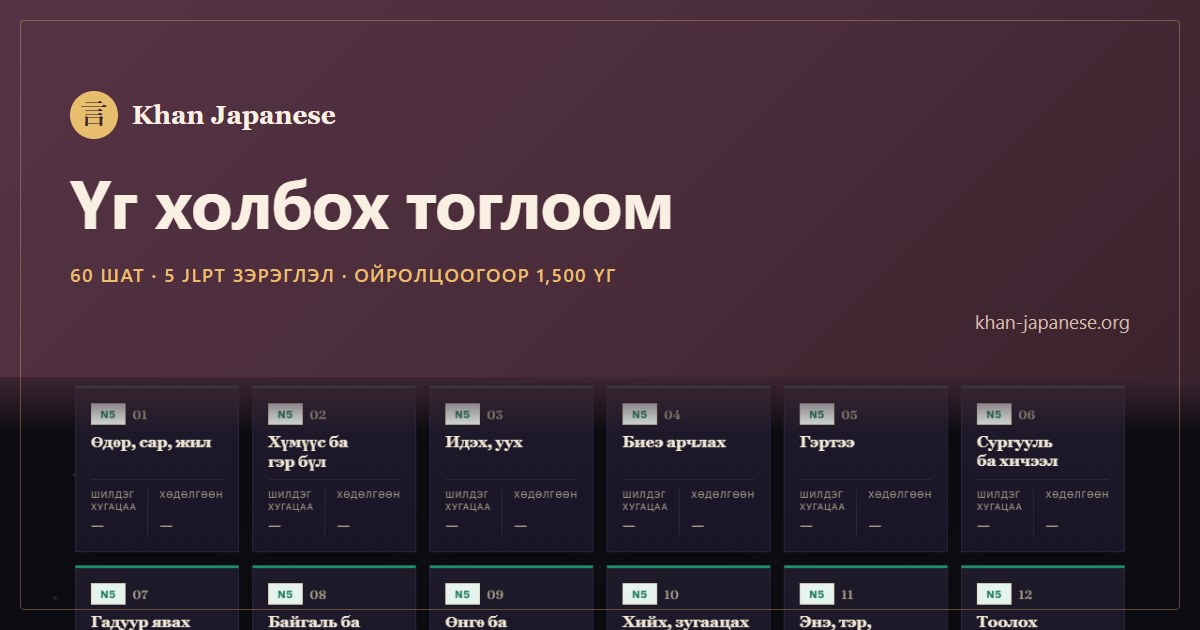
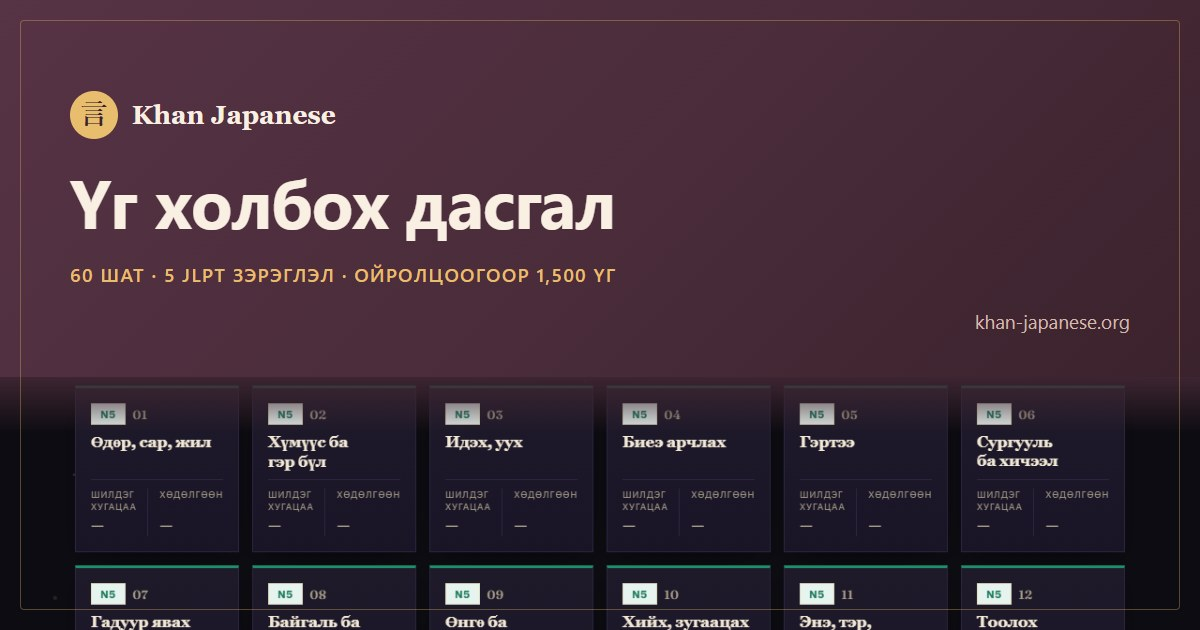
Word Match is "Үг холбох дасгал", and "үнэгүй" is out of the promotion copy
Two wording decisions from the user while reviewing the Facebook cover:

- The tool's Mongolian name becomes "Үг холбох дасгал" everywhere it appears:
  masthead nav, hub card, the game page's title, subtitle and share card,
  dashboard, dictionary sources, credits, privacy, terms. That's 19 uses, and
  the only inflections were тоглоом / тоглоомын, so no vowel-harmony traps. The
  round's start button said "Тоглоом эхлүүлэх" and now says "Дасгал
  эхлүүлэх"; the two specs that click it by label follow. "Тоглолт, спорт,
  тоглоом" stays: it's a vocabulary topic (the words for games), not the tool.
  English "Word Match" is unchanged.
- "үнэгүй" (free) read as cheap, so it's gone from the home and dictionary
  share previews (title and descriptions), the home and dictionary preview
  images, and the Facebook bio, About text and Post 1. It stays where it's a
  statement of fact rather than a pitch: the credits' licence notes, privacy,
  terms, and the Word Match tip about a bonus clearing a pair for free.

The home description's tool list would have read "үг холбох дасгал, дүрмийн
дасгал", so it now uses the tools' own names. Post 3 no longer opens by
framing word study as a game.

Checked in a browser in Mongolian: nav and hub card say "Үг холбох дасгал",
the start button says "Дасгал эхлүүлэх", and the page titles and share
previews are right on all pages. Test suite 5/5. sw.js v88.

Changed region(s): [[0.3392, 0.3016, 0.5858, 0.3921]]

diff --git a/index.html b/index.html
@@ -3,24 +3,24 @@
 
 <head>
     <meta charset="UTF-8">
-    <title data-en="Khan Japanese - Japanese Study Tools">Khan Japanese — Япон хэл сурах үнэгүй хэрэгслүүд</title>
+    <title data-en="Khan Japanese - Japanese Study Tools">Khan Japanese — Япон хэл сурах хэрэгслүүд</title>
     <meta name="viewport" content="width=device-width, initial-scale=1">
-    <meta name="description" content="Япон хэлийг амар замаар нь биш, үндсээс нь сурахад зориулсан үнэгүй хэрэгслүүд: Монгол-Япон толь бичиг, үг холбох тоглоом, дүрмийн дасгал, чанга уншлагын дадлага. Бүртгүүлэх шаардлагагүй.">
+    <meta name="description" content="Япон хэлийг амар замаар нь биш, үндсээс нь сурахад зориулсан хэрэгслүүд: Монгол-Япон толь бичиг, үг холбох дасгал, дүрэм холбох, уншлагын дадлага. Бүртгүүлэх шаардлагагүй.">
     <link rel="canonical" href="https://khan-japanese.org/">
     <meta property="og:type" content="website">
     <meta property="og:site_name" content="Khan Japanese">
     <meta property="og:locale" content="mn_MN">
     <meta property="og:locale:alternate" content="en_US">
-    <meta property="og:title" content="Khan Japanese — Япон хэл сурах үнэгүй хэрэгслүүд">
-    <meta property="og:description" content="Япон хэлийг амар замаар нь биш, үндсээс нь сурахад зориулсан үнэгүй хэрэгслүүд: Монгол-Япон толь бичиг, үг холбох тоглоом, дүрмийн дасгал, чанга уншлагын дадлага. Бүртгүүлэх шаардлагагүй.">
+    <meta property="og:title" content="Khan Japanese — Япон хэл сурах хэрэгслүүд">
+    <meta property="og:description" content="Япон хэлийг амар замаар нь биш, үндсээс нь сурахад зориулсан хэрэгслүүд: Монгол-Япон толь бичиг, үг холбох дасгал, дүрэм холбох, уншлагын дадлага. Бүртгүүлэх шаардлагагүй.">
     <meta property="og:url" content="https://khan-japanese.org/">
     <meta property="og:image" content="https://khan-japanese.org/images/share/home.jpg">
     <meta property="og:image:width" content="1200">
     <meta property="og:image:height" content="630">
     <meta property="og:image:alt" content="Khan Japanese — Япон хэлтэй найзалцгаая">
     <meta name="twitter:card" content="summary_large_image">
-    <meta name="twitter:title" content="Khan Japanese — Япон хэл сурах үнэгүй хэрэгслүүд">
-    <meta name="twitter:description" content="Япон хэлийг амар замаар нь биш, үндсээс нь сурахад зориулсан үнэгүй хэрэгслүүд: Монгол-Япон толь бичиг, үг холбох тоглоом, дүрмийн дасгал, чанга уншлагын дадлага. Бүртгүүлэх шаардлагагүй.">
+    <meta name="twitter:title" content="Khan Japanese — Япон хэл сурах хэрэгслүүд">
+    <meta name="twitter:description" content="Япон хэлийг амар замаар нь биш, үндсээс нь сурахад зориулсан хэрэгслүүд: Монгол-Япон толь бичиг, үг холбох дасгал, дүрэм холбох, уншлагын дадлага. Бүртгүүлэх шаардлагагүй.">
     <meta name="twitter:image" content="https://khan-japanese.org/images/share/home.jpg">
     <link rel="icon" type="image/svg+xml" href="favicon.svg">
     <link rel="manifest" href="manifest.json">

diff --git a/hub-i18n-strings.js b/hub-i18n-strings.js
@@ -31,7 +31,7 @@ Object.assign(window.I18N_STRINGS, {
     'hub.origins.stat': { en: '9 ERAS · 46 KANA · NO KANJI NEEDED', mn: '9 ҮЕ ШАТ · 46 КАНА · ХАНЗ МЭДЭХ ШААРДЛАГАГҮЙ' },
     'hub.origins.cta': { en: 'Start →', mn: 'Эхлэх →' },
 
-    'hub.game.name': { en: 'Word Match', mn: 'Үг холбох тоглоом' },
+    'hub.game.name': { en: 'Word Match', mn: 'Үг холбох дасгал' },
     'hub.game.desc': {
         en: 'An online exercise that connects each Japanese word to the Mongolian word with the matching meaning. Connect several kanji that share a phonetic reading at once and multiple words clear together. Each level starts on a 4-minute clock that every matched pair extends, and two wrong guesses bring an already-cleared pair back.',
         mn: 'Япон үгийг утга нь ижил монгол үгтэй холбох дасгал. Ижил дуудлагын язгууртай хэд хэдэн ханзыг зэрэг холбовол олон үг нэг дор арилна. Шат бүр 4 минутаас эхэлж, хос таарах бүрд цаг нэмэгдэнэ. Хоёр удаа буруу дарвал арилсан хос эргэж гарч ирнэ.'
@@ -66,7 +66,7 @@ Object.assign(window.I18N_STRINGS, {
     'hub.dictionary.name': { en: 'Mongol-Japan Dictionary', mn: 'Монгол-Япон толь бичиг' },
     'hub.dictionary.desc': {
         en: "Look up a word in Mongolian or Japanese and see its counterpart, drawn from four merged sources — Word Match's translated vocabulary, a human-reviewed bridge dictionary, a core N5 list, and the Kango ⇄ Wago pairs. A second tab holds the original Kango ⇄ Wago dictionary — the formal Sino-Japanese (kango, 漢語) and native-Japanese (wago, 和語) form of whatever kanji you search, plus the respectful (尊敬語) and humble (謙譲語) verb forms used in sentences.",
-        mn: 'Монгол эсвэл япон үг хайхад нөгөө талын хос үг нь гарч ирнэ. Таван эх сурвалжийг нэгтгэсэн: Үг холбох тоглоомын үгсийн сан, гараар хянасан гүүр толь, N5-ын үндсэн үгс, өдөр тутмын орчин үеийн үгс, Канго ⇄ Ваго хосууд. Хоёр дахь таб нь Канго ⇄ Ваго толь бичгийг агуулна — таны хайсан ханзны хятад гаралтай, албан ёсны канго (漢語) хэлбэр, уугуул япон ваго (和語) хэлбэр, мөн өгүүлбэрт хэрэглэгдэх хүндэтгэлийн (尊敬語) болон даруу (謙譲語) үйл үгийн хэлбэрүүд.'
+        mn: 'Монгол эсвэл япон үг хайхад нөгөө талын хос үг нь гарч ирнэ. Таван эх сурвалжийг нэгтгэсэн: Үг холбох дасгалын үгсийн сан, гараар хянасан гүүр толь, N5-ын үндсэн үгс, өдөр тутмын орчин үеийн үгс, Канго ⇄ Ваго хосууд. Хоёр дахь таб нь Канго ⇄ Ваго толь бичгийг агуулна — таны хайсан ханзны хятад гаралтай, албан ёсны канго (漢語) хэлбэр, уугуул япон ваго (和語) хэлбэр, мөн өгүүлбэрт хэрэглэгдэх хүндэтгэлийн (尊敬語) болон даруу (謙譲語) үйл үгийн хэлбэрүүд.'
     },
     'hub.dictionary.stat': { en: '3,537 WORDS', mn: '3,537 ҮГ' },
     'hub.dictionary.cta': { en: 'Search →', mn: 'Хайх →' },

diff --git a/privacy-i18n-strings.js b/privacy-i18n-strings.js
@@ -33,7 +33,7 @@ Object.assign(window.I18N_STRINGS, {
     },
     'privacy.whatICollect.li5': {
         en: "<strong>Study progress</strong> — which Word Match levels you've completed and your best time/moves, which Grammar Connect levels you've completed and your best time/mistakes, and which Dokkai Reader texts you've completed per track.",
-        mn: '<strong>Суралцах явц</strong> — таны дуусгасан Үг холбох тоглоомын шатууд, тэдгээрийн шилдэг хугацаа/хөдөлгөөн, дуусгасан Дүрэм холбохын шатууд, тэдгээрийн шилдэг хугацаа/алдаа, мөн зам бүрээр дуусгасан Уншлагын дадлагын текстүүд.'
+        mn: '<strong>Суралцах явц</strong> — таны дуусгасан Үг холбох дасгалын шатууд, тэдгээрийн шилдэг хугацаа/хөдөлгөөн, дуусгасан Дүрэм холбохын шатууд, тэдгээрийн шилдэг хугацаа/алдаа, мөн зам бүрээр дуусгасан Уншлагын дадлагын текстүүд.'
     },
 
     'privacy.whatICollect.settings': {
@@ -97,7 +97,7 @@ Object.assign(window.I18N_STRINGS, {
     },
     'privacy.deleteAccount.whatGoes': {
         en: '<strong>What is deleted:</strong> your account and everything tied to it — your profile and display name, saved bookmarks, any message you sent through the contact form, your Word Match, Dokkai Reader and Grammar Connect progress, the per-word counts behind your review list, the record of which days you studied, and your display settings. It is a single database deletion that cascades to all of them; nothing is held back.',
-        mn: '<strong>Юу устах вэ:</strong> таны бүртгэл, түүнд холбоотой бүх зүйл — хувийн мэдээлэл, харагдах нэр, хадгалсан хавчуургууд, холбоо барих маягтаар илгээсэн захидал, «Үг холбох тоглоом», «Уншлагын дадлага», «Дүрэм холбох»-ын явц, давтах жагсаалтын ард байгаа үг тус бүрийн тоолол, суралцсан өдрүүдийн бүртгэл, мөн харагдах байдлын тохиргоо. Энэ бол өгөгдлийн сангийн ганц удаагийн устгал бөгөөд бүгдэд нь дамжин үйлчилнэ; юу ч үлдэхгүй.'
+        mn: '<strong>Юу устах вэ:</strong> таны бүртгэл, түүнд холбоотой бүх зүйл — хувийн мэдээлэл, харагдах нэр, хадгалсан хавчуургууд, холбоо барих маягтаар илгээсэн захидал, «Үг холбох дасгал», «Уншлагын дадлага», «Дүрэм холбох»-ын явц, давтах жагсаалтын ард байгаа үг тус бүрийн тоолол, суралцсан өдрүүдийн бүртгэл, мөн харагдах байдлын тохиргоо. Энэ бол өгөгдлийн сангийн ганц удаагийн устгал бөгөөд бүгдэд нь дамжин үйлчилнэ; юу ч үлдэхгүй.'
     },
     'privacy.deleteAccount.whatStays': {
         en: '<strong>What isn’t mine to delete:</strong> my web host’s standard request logs and my database provider’s routine backups, which age out on their own schedules. I don’t read either one and can’t pick your rows out of them.',

diff --git a/dictionary-i18n-strings.js b/dictionary-i18n-strings.js
@@ -6,7 +6,7 @@ Object.assign(window.I18N_STRINGS, {
     'dict.titleSub': { en: 'Mongol-Japan Dictionary', mn: 'Монгол-Япон толь бичиг' },
     'dict.subtitle': {
         en: "Search a Mongolian or Japanese word and see its counterpart on the other side — 3,537 entries merged from five sources: Word Match's translated vocabulary, a human-reviewed bridge dictionary, a core N5 list, everyday modern words, and the Kango ⇄ Wago pairs below. Each result shows which source it came from, and about a third also carry an example sentence — click a result to open it. The Kango ⇄ Wago tab holds the original Sino-Japanese/native-Japanese dictionary, honorific forms included.",
-        mn: 'Монгол эсвэл япон үг хайхад нөгөө талын хос үг нь гарч ирнэ. Таван эх сурвалжийг нэгтгэсэн 3,537 үгтэй: Үг холбох тоглоомын үгсийн сан, гараар хянасан гүүр толь, N5-ын үндсэн үгс, өдөр тутмын орчин үеийн үгс, доорх Канго ⇄ Ваго хосууд. Үг бүрийн хажууд аль эх сурвалжаас авсныг нь тэмдэглэсэн байгаа. Гуравны нэг орчимд нь жишээ өгүүлбэр байгаа — дээр нь дарж үзээрэй. Канго ⇄ Ваго таб нь Хятад-Япон гаралтай (канго) ба уугуул Япон (ваго) толь бичгийг, хүндэтгэлийн хэлбэрийн хамт агуулдаг.'
+        mn: 'Монгол эсвэл япон үг хайхад нөгөө талын хос үг нь гарч ирнэ. Таван эх сурвалжийг нэгтгэсэн 3,537 үгтэй: Үг холбох дасгалын үгсийн сан, гараар хянасан гүүр толь, N5-ын үндсэн үгс, өдөр тутмын орчин үеийн үгс, доорх Канго ⇄ Ваго хосууд. Үг бүрийн хажууд аль эх сурвалжаас авсныг нь тэмдэглэсэн байгаа. Гуравны нэг орчимд нь жишээ өгүүлбэр байгаа — дээр нь дарж үзээрэй. Канго ⇄ Ваго таб нь Хятад-Япон гаралтай (канго) ба уугуул Япон (ваго) толь бичгийг, хүндэтгэлийн хэлбэрийн хамт агуулдаг.'
     },
     'dict.mnjpSearchPlaceholder': { en: 'Search by Mongolian, kanji, kana, or English…', mn: 'Монгол, ханз, кана, эсвэл англи үгээр хайх…' },
     'dict.mnjpTruncated': { en: '{shown} of {total} shown — refine your search', mn: '{total}-с {shown} харуулж байна — хайлтаа тодруулна уу' },
@@ -23,7 +23,7 @@ Object.assign(window.I18N_STRINGS, {
 
     // MN<->JP tab: source-tag labels (which of the three merged sources confirms this word),
     // and the cross-link over to a word's Kango<->Wago partner when it has one.
-    'dict.sourceGamewords': { en: 'Word Match', mn: 'Үг холбох тоглоом' },
+    'dict.sourceGamewords': { en: 'Word Match', mn: 'Үг холбох дасгал' },
     'dict.sourceBridge': { en: 'Bridge review', mn: 'Гүүр толь бичиг' },
     'dict.sourceKangowago': { en: 'Kango ⇄ Wago', mn: 'Канго ⇄ Ваго' },
     'dict.sourceCore': { en: 'Core N5', mn: 'N5 үндсэн' },

diff --git a/credits-i18n-strings.js b/credits-i18n-strings.js
@@ -29,12 +29,12 @@ Object.assign(window.I18N_STRINGS, {
         mn: 'Бүгд Wikimedia Commons-оос авсан бөгөөд энд ашиглахын тулд хэмжээг өөрчилж, дахин шахсанаас өөр өөрчлөлт ороогүй. Уг хэсэгт байгаа уншлагын дарааллын зургийг эх сурвалжаас хуулаагүй, HTML-ээр шинээр зуржээ.'
     },
 
-    'credits.wgPhotos.h': { en: 'Word Game — background photography', mn: 'Үг холбох тоглоом — дэвсгэр гэрэл зураг' },
+    'credits.wgPhotos.h': { en: 'Word Game — background photography', mn: 'Үг холбох дасгал — дэвсгэр гэрэл зураг' },
     'credits.wgPhotos.note': {
         en: 'All sourced from Wikimedia Commons, resized and re-compressed for use here; no other changes made. Each level uses one of the ten photos above, cycling every 10 levels, shown faded behind the board.',
         mn: 'Бүгд Wikimedia Commons-оос авсан бөгөөд энд ашиглахын тулд хэмжээг өөрчилж, дахин шахсанаас өөр өөрчлөлт ороогүй. Шат бүр дээрх арван зургийн нэгийг ашигладаг бөгөөд 10 шат тутамд солигдож, самбарын ард бүдэгхэн харагдана.',
     },
-    'credits.wgMusic.h': { en: 'Word Game — background music', mn: 'Үг холбох тоглоом — дэвсгэр хөгжим' },
+    'credits.wgMusic.h': { en: 'Word Game — background music', mn: 'Үг холбох дасгал — дэвсгэр хөгжим' },
     'credits.wgMusic.note': {
         en: 'All 31 tracks via Pixabay Music, used under the Pixabay Content License (free for commercial use, no attribution required — credited here anyway). Re-encoded to 112kbps for file size; no other changes made. Soul jazz plays on N1, jazz-study on N2, smooth jazz on N3, and lofi jazz on N4 & N5 (shared pool), cycling by level within each tier; the 30 tier tracks are by Alex-Beats (Alex Morgan), except Jazzy Pop Piano / Japan City by WELC0MEИ0, which plays on the level-select screen while browsing between levels.',
         mn: 'Бүх 31 хөгжмийн бичлэг Pixabay Music-аас, Pixabay-ийн контентийн зөвшөөрлийн дагуу (арилжааны зориулалтаар үнэгүй ашиглаж болно, эх сурвалж заавал дурдах шаардлагагүй ч энд заасан болно). Файлын хэмжээг багасгахын тулд 112kbps болгож дахин кодлосноос өөр өөрчлөлт ороогүй. N1 дээр soul jazz, N2 дээр jazz-study, N3 дээр smooth jazz, N4 ба N5 дээр (нэг сан хуваалцдаг) lofi jazz ээлжлэн тоглоно; дээрх 30 бичлэгийг Alex-Beats (Alex Morgan) хийсэн бол Jazzy Pop Piano / Japan City-г WELC0MEИ0 хийсэн бөгөөд энэ нь шат сонгох дэлгэц дээр тоглоно.',

diff --git a/dictionary.html b/dictionary.html
@@ -5,14 +5,14 @@
     <meta charset="UTF-8">
     <title data-en="Mongol-Japan Dictionary - Khan Japanese">Монгол-Япон толь бичиг — Khan Japanese</title>
     <meta name="viewport" content="width=device-width, initial-scale=1">
-    <meta name="description" content="Монгол эсвэл япон үг хайхад нөгөө хэлний хос үг нь гарч ирнэ. Таван эх сурвалжаас нэгтгэсэн 3,537 үг. Үнэгүй, бүртгүүлэх шаардлагагүй.">
+    <meta name="description" content="Монгол эсвэл япон үг хайхад нөгөө хэлний хос үг нь гарч ирнэ. Таван эх сурвалжаас нэгтгэсэн 3,537 үг. Бүртгүүлэх шаардлагагүй.">
     <link rel="canonical" href="https://khan-japanese.org/dictionary.html">
     <meta property="og:type" content="website">
     <meta property="og:site_name" content="Khan Japanese">
     <meta property="og:locale" content="mn_MN">
     <meta property="og:locale:alternate" content="en_US">
     <meta property="og:title" content="Монгол-Япон толь бичиг — Khan Japanese">
-    <meta property="og:description" content="Монгол эсвэл япон үг хайхад нөгөө хэлний хос үг нь гарч ирнэ. Таван эх сурвалжаас нэгтгэсэн 3,537 үг. Үнэгүй, бүртгүүлэх шаардлагагүй.">
+    <meta property="og:description" content="Монгол эсвэл япон үг хайхад нөгөө хэлний хос үг нь гарч ирнэ. Таван эх сурвалжаас нэгтгэсэн 3,537 үг. Бүртгүүлэх шаардлагагүй.">
     <meta property="og:url" content="https://khan-japanese.org/dictionary.html">
     <meta property="og:image" content="https://khan-japanese.org/images/share/dictionary.jpg">
     <meta property="og:image:width" content="1200">
@@ -20,7 +20,7 @@
     <meta property="og:image:alt" content="Монгол-Япон толь бичиг: «ном» гэж хайхад 書籍, 本 гарч ирсэн байдал">
     <meta name="twitter:card" content="summary_large_image">
     <meta name="twitter:title" content="Монгол-Япон толь бичиг — Khan Japanese">
-    <meta name="twitter:description" content="Монгол эсвэл япон үг хайхад нөгөө хэлний хос үг нь гарч ирнэ. Таван эх сурвалжаас нэгтгэсэн 3,537 үг. Үнэгүй, бүртгүүлэх шаардлагагүй.">
+    <meta name="twitter:description" content="Монгол эсвэл япон үг хайхад нөгөө хэлний хос үг нь гарч ирнэ. Таван эх сурвалжаас нэгтгэсэн 3,537 үг. Бүртгүүлэх шаардлагагүй.">
     <meta name="twitter:image" content="https://khan-japanese.org/images/share/dictionary.jpg">
     <link rel="icon" type="image/svg+xml" href="favicon.svg">
     <link rel="manifest" href="manifest.json">

diff --git a/dashboard-i18n-strings.js b/dashboard-i18n-strings.js
@@ -16,10 +16,10 @@ Object.assign(window.I18N_STRINGS, {
     'dash.yourScore': { en: 'Your Score', mn: 'Таны оноо' },
     'dash.you': { en: 'You', mn: 'Та' },
     'dash.average': { en: 'Average', mn: 'Дундаж' },
-    'dash.scoreNote': { en: '{n} points per tool for full completion (Word Match, Grammar Connect, Dokkai Reader), 3,000 max. Compared against every registered user.', mn: 'Хэрэгсэл бүрийг бүрэн дуусгавал {n} оноо (Үг холбох тоглоом, Дүрэм холбох, Уншлагын дадлага), дээд тал нь 3,000. Бүх бүртгэлтэй хэрэглэгчийн дундажтай харьцуулж харуулав.' },
+    'dash.scoreNote': { en: '{n} points per tool for full completion (Word Match, Grammar Connect, Dokkai Reader), 3,000 max. Compared against every registered user.', mn: 'Хэрэгсэл бүрийг бүрэн дуусгавал {n} оноо (Үг холбох дасгал, Дүрэм холбох, Уншлагын дадлага), дээд тал нь 3,000. Бүх бүртгэлтэй хэрэглэгчийн дундажтай харьцуулж харуулав.' },
     'dash.usersCounted': { en: 'Based on {n} registered users.', mn: 'Бүртгэлтэй {n} хэрэглэгчийн дата дээр үндэслэсэн.' },
 
-    'dash.tools.game': { en: 'Word Match', mn: 'Үг холбох тоглоом' },
+    'dash.tools.game': { en: 'Word Match', mn: 'Үг холбох дасгал' },
     'dash.tools.grammar': { en: 'Grammar Connect', mn: 'Дүрэм холбох' },
     'dash.tools.reading': { en: 'Dokkai Reader', mn: 'Уншлагын дадлага' },
     'dash.streak.title': { en: 'Study streak', mn: 'Суралцсан өдрийн цуваа' },
@@ -40,7 +40,7 @@ Object.assign(window.I18N_STRINGS, {
     'dash.textsDone': { en: '{done} / {total} texts', mn: '{done} / {total} текст' },
     'dash.continue': { en: 'Continue →', mn: 'Үргэлжлүүлэх →' },
 
-    'dash.missed.practise': { en: 'Practise these in Word Match →', mn: 'Эдгээрийг «Үг холбох тоглоом» дээр давтах →' },
+    'dash.missed.practise': { en: 'Practise these in Word Match →', mn: 'Эдгээрийг «Үг холбох дасгал» дээр давтах →' },
     'dash.missed.h': { en: 'Words you keep missing', mn: 'Байнга алддаг үгс' },
     'dash.missed.sub': {
         en: 'Counted from every wrong pair in Word Match and every word skipped in Dokkai Reader. Grammar has its own list below.',

diff --git a/game.html b/game.html
@@ -3,7 +3,7 @@
 
 <head>
     <meta charset="UTF-8">
-    <title data-en="Japanese Word Match - Khan Japanese">Үг холбох тоглоом — Khan Japanese</title>
+    <title data-en="Japanese Word Match - Khan Japanese">Үг холбох дасгал — Khan Japanese</title>
     <meta name="viewport" content="width=device-width, initial-scale=1">
     <meta name="description" content="Япон үгийг утга нь ижил монгол үгтэй холбох дасгал. JLPT-ийн таван зэрэглэлд 60 шат, ойролцоогоор 1,500 үг.">
     <link rel="canonical" href="https://khan-japanese.org/game.html">
@@ -11,15 +11,15 @@
     <meta property="og:site_name" content="Khan Japanese">
     <meta property="og:locale" content="mn_MN">
     <meta property="og:locale:alternate" content="en_US">
-    <meta property="og:title" content="Үг холбох тоглоом — Khan Japanese">
+    <meta property="og:title" content="Үг холбох дасгал — Khan Japanese">
     <meta property="og:description" content="Япон үгийг утга нь ижил монгол үгтэй холбох дасгал. JLPT-ийн таван зэрэглэлд 60 шат, ойролцоогоор 1,500 үг.">
     <meta property="og:url" content="https://khan-japanese.org/game.html">
     <meta property="og:image" content="https://khan-japanese.org/images/share/game.jpg">
     <meta property="og:image:width" content="1200">
     <meta property="og:image:height" content="630">
-    <meta property="og:image:alt" content="Үг холбох тоглоомын N5 шатуудын жагсаалт">
+    <meta property="og:image:alt" content="Үг холбох дасгалын N5 шатуудын жагсаалт">
     <meta name="twitter:card" content="summary_large_image">
-    <meta name="twitter:title" content="Үг холбох тоглоом — Khan Japanese">
+    <meta name="twitter:title" content="Үг холбох дасгал — Khan Japanese">
     <meta name="twitter:description" content="Япон үгийг утга нь ижил монгол үгтэй холбох дасгал. JLPT-ийн таван зэрэглэлд 60 шат, ойролцоогоор 1,500 үг.">
     <meta name="twitter:image" content="https://khan-japanese.org/images/share/game.jpg">
     <link rel="icon" type="image/svg+xml" href="favicon.svg">

diff --git a/game-i18n-strings.js b/game-i18n-strings.js
@@ -9,7 +9,7 @@
 Object.assign(window.I18N_STRINGS, {
     'game.reviewTitle': { en: 'Review · words you missed', mn: 'Давтлага · алдсан үгс' },
     'game.chainCombo': { en: 'CHAIN ×{n}', mn: 'ГИНЖ ×{n}' },
-    'game.titleSub': { en: 'Japanese Word Match', mn: 'Япон үг холбох тоглоом' },
+    'game.titleSub': { en: 'Japanese Word Match', mn: 'Япон үг холбох дасгал' },
     'game.subtitle': {
         en: 'Connect each Japanese word to its English meaning. Every level puts 20 pairs in play on a flat 4-minute clock (+20s per pair matched), and there are 12 levels per JLPT tier — N5 is beginner vocabulary, N1 is advanced. Kanji sharing a phonetic component can be chained together for a lightning-fast multi-clear, and 4 correct pairs in a row banks a powerup you can spend on a free clear or swapping in new words. Two mistakes bring a cleared pair back as a penalty, so slow down and look before you click.',
         mn: 'Япон үг бүрийг утга нь тохирох үгтэй холбоно уу. Шат бүрт 20 хос, 4 минутын цаг байна (хос таарах бүрд +20 секунд). JLPT түвшин бүрт 12 шат — N5 нь анхан шат, N1 нь хамгийн гүнзгий. Ижил дуудлагын язгууртай ханзуудыг хооронд нь холбовол хэд хэдэн хос нэг дор арилна. Алдаагүй дараалан 4 хос холбовол бонус авах бөгөөд үүгээр нэг хос хасах, эсвэл шинэ үгээр солиж болно. Хоёр удаа буруу дарвал арилсан хос торгууль болж эргэж ирнэ — тиймээс яаралгүй, сайн хараад дараарай.'

diff --git a/terms-i18n-strings.js b/terms-i18n-strings.js
@@ -14,7 +14,7 @@ Object.assign(window.I18N_STRINGS, {
     'terms.whatThisIs.h': { en: 'What this is', mn: 'Энэ юу вэ' },
     'terms.whatThisIs.p': {
         en: "This site is a personal portfolio and a set of free, educational Japanese-learning tools (a vocabulary matching game and a read-aloud practice tool, among others), built and maintained by one individual as a personal project. It isn't a company, and using it doesn't create any commercial relationship between us.",
-        mn: 'Энэ бол миний өөрөө хийж, ажиллуулдаг хувийн сайт. Надтай танилцуулах хуудас, түүнчлэн япон хэл сурах үнэгүй хэрэгслүүд (үг холбох тоглоом, дуудаж унших дадлага гэх мэт) багтана. Энэ нь компани биш бөгөөд сайтыг ашигласнаар бидний хооронд арилжааны ямар ч харилцаа үүсэхгүй.'
+        mn: 'Энэ бол миний өөрөө хийж, ажиллуулдаг хувийн сайт. Надтай танилцуулах хуудас, түүнчлэн япон хэл сурах үнэгүй хэрэгслүүд (үг холбох дасгал, дуудаж унших дадлага гэх мэт) багтана. Энэ нь компани биш бөгөөд сайтыг ашигласнаар бидний хооронд арилжааны ямар ч харилцаа үүсэхгүй.'
     },
 
     'terms.accounts.h': { en: 'Accounts', mn: 'Бүртгэл' },

diff --git a/i18n-strings-shared.js b/i18n-strings-shared.js
@@ -9,7 +9,7 @@ window.I18N_STRINGS = {
     // can reach it.
     'game.levels': { en: 'Levels', mn: 'Шатууд' },
     'game.time': { en: 'Time', mn: 'Хугацаа' },
-    'game.startMatch': { en: 'Start Match', mn: 'Тоглоом эхлүүлэх' },
+    'game.startMatch': { en: 'Start Match', mn: 'Дасгал эхлүүлэх' },
     'game.backToLevels': { en: 'Back to Levels', mn: 'Шатууд руу буцах' },
     'game.logInToSave': { en: 'Log In to Save', mn: 'Хадгалахын тулд нэвтрэх' },
     'game.levelComplete': { en: 'Level Complete!', mn: 'Шат дууслаа!' },
@@ -34,7 +34,7 @@ window.I18N_STRINGS = {
     // carries seven items and overflowed in Mongolian at 1280px once before.
     'nav.studyPath': { en: 'Study Path', mn: 'Сурах зам' },
     'nav.kanaOrigins': { en: 'Kana Origins', mn: 'Канагийн үүсэл' },
-    'nav.wordGame': { en: 'Word Game', mn: 'Үг холбох тоглоом' },
+    'nav.wordGame': { en: 'Word Game', mn: 'Үг холбох дасгал' },
     'nav.allLevels': { en: 'All Levels', mn: 'Бүх шат' },
     'nav.n5Beginner': { en: 'N5 · Beginner', mn: 'N5 · Анхан шат' },
     'nav.n4Elementary': { en: 'N4 · Elementary', mn: 'N4 · Суурь шат' },

diff --git a/tools/share-cards/make-cards.js b/tools/share-cards/make-cards.js
@@ -34,8 +34,8 @@ const mn = key => {
 };
 
 const CARDS = [
-    { out: 'home', title: mn('hub.heroTitle'), stat: '6 ХЭРЭГСЭЛ · ҮНЭГҮЙ · БҮРТГҮҮЛЭХ ШААРДЛАГАГҮЙ' },
-    { out: 'dictionary', title: mn('hub.dictionary.name'), stat: mn('hub.dictionary.stat') + ' · ҮНЭГҮЙ', shot: 'dictionary' },
+    { out: 'home', title: mn('hub.heroTitle'), stat: '6 ХЭРЭГСЭЛ · БҮРТГҮҮЛЭХ ШААРДЛАГАГҮЙ' },
+    { out: 'dictionary', title: mn('hub.dictionary.name'), stat: mn('hub.dictionary.stat'), shot: 'dictionary' },
     { out: 'game', title: mn('hub.game.name'), stat: mn('hub.game.stat'), shot: 'game' },
     { out: 'grammar', title: mn('hub.grammar.name'), stat: mn('hub.grammar.stat'), shot: 'grammar' },
     { out: 'reading', title: mn('hub.reading.name'), stat: mn('hub.reading.stat'), shot: 'reading' },
